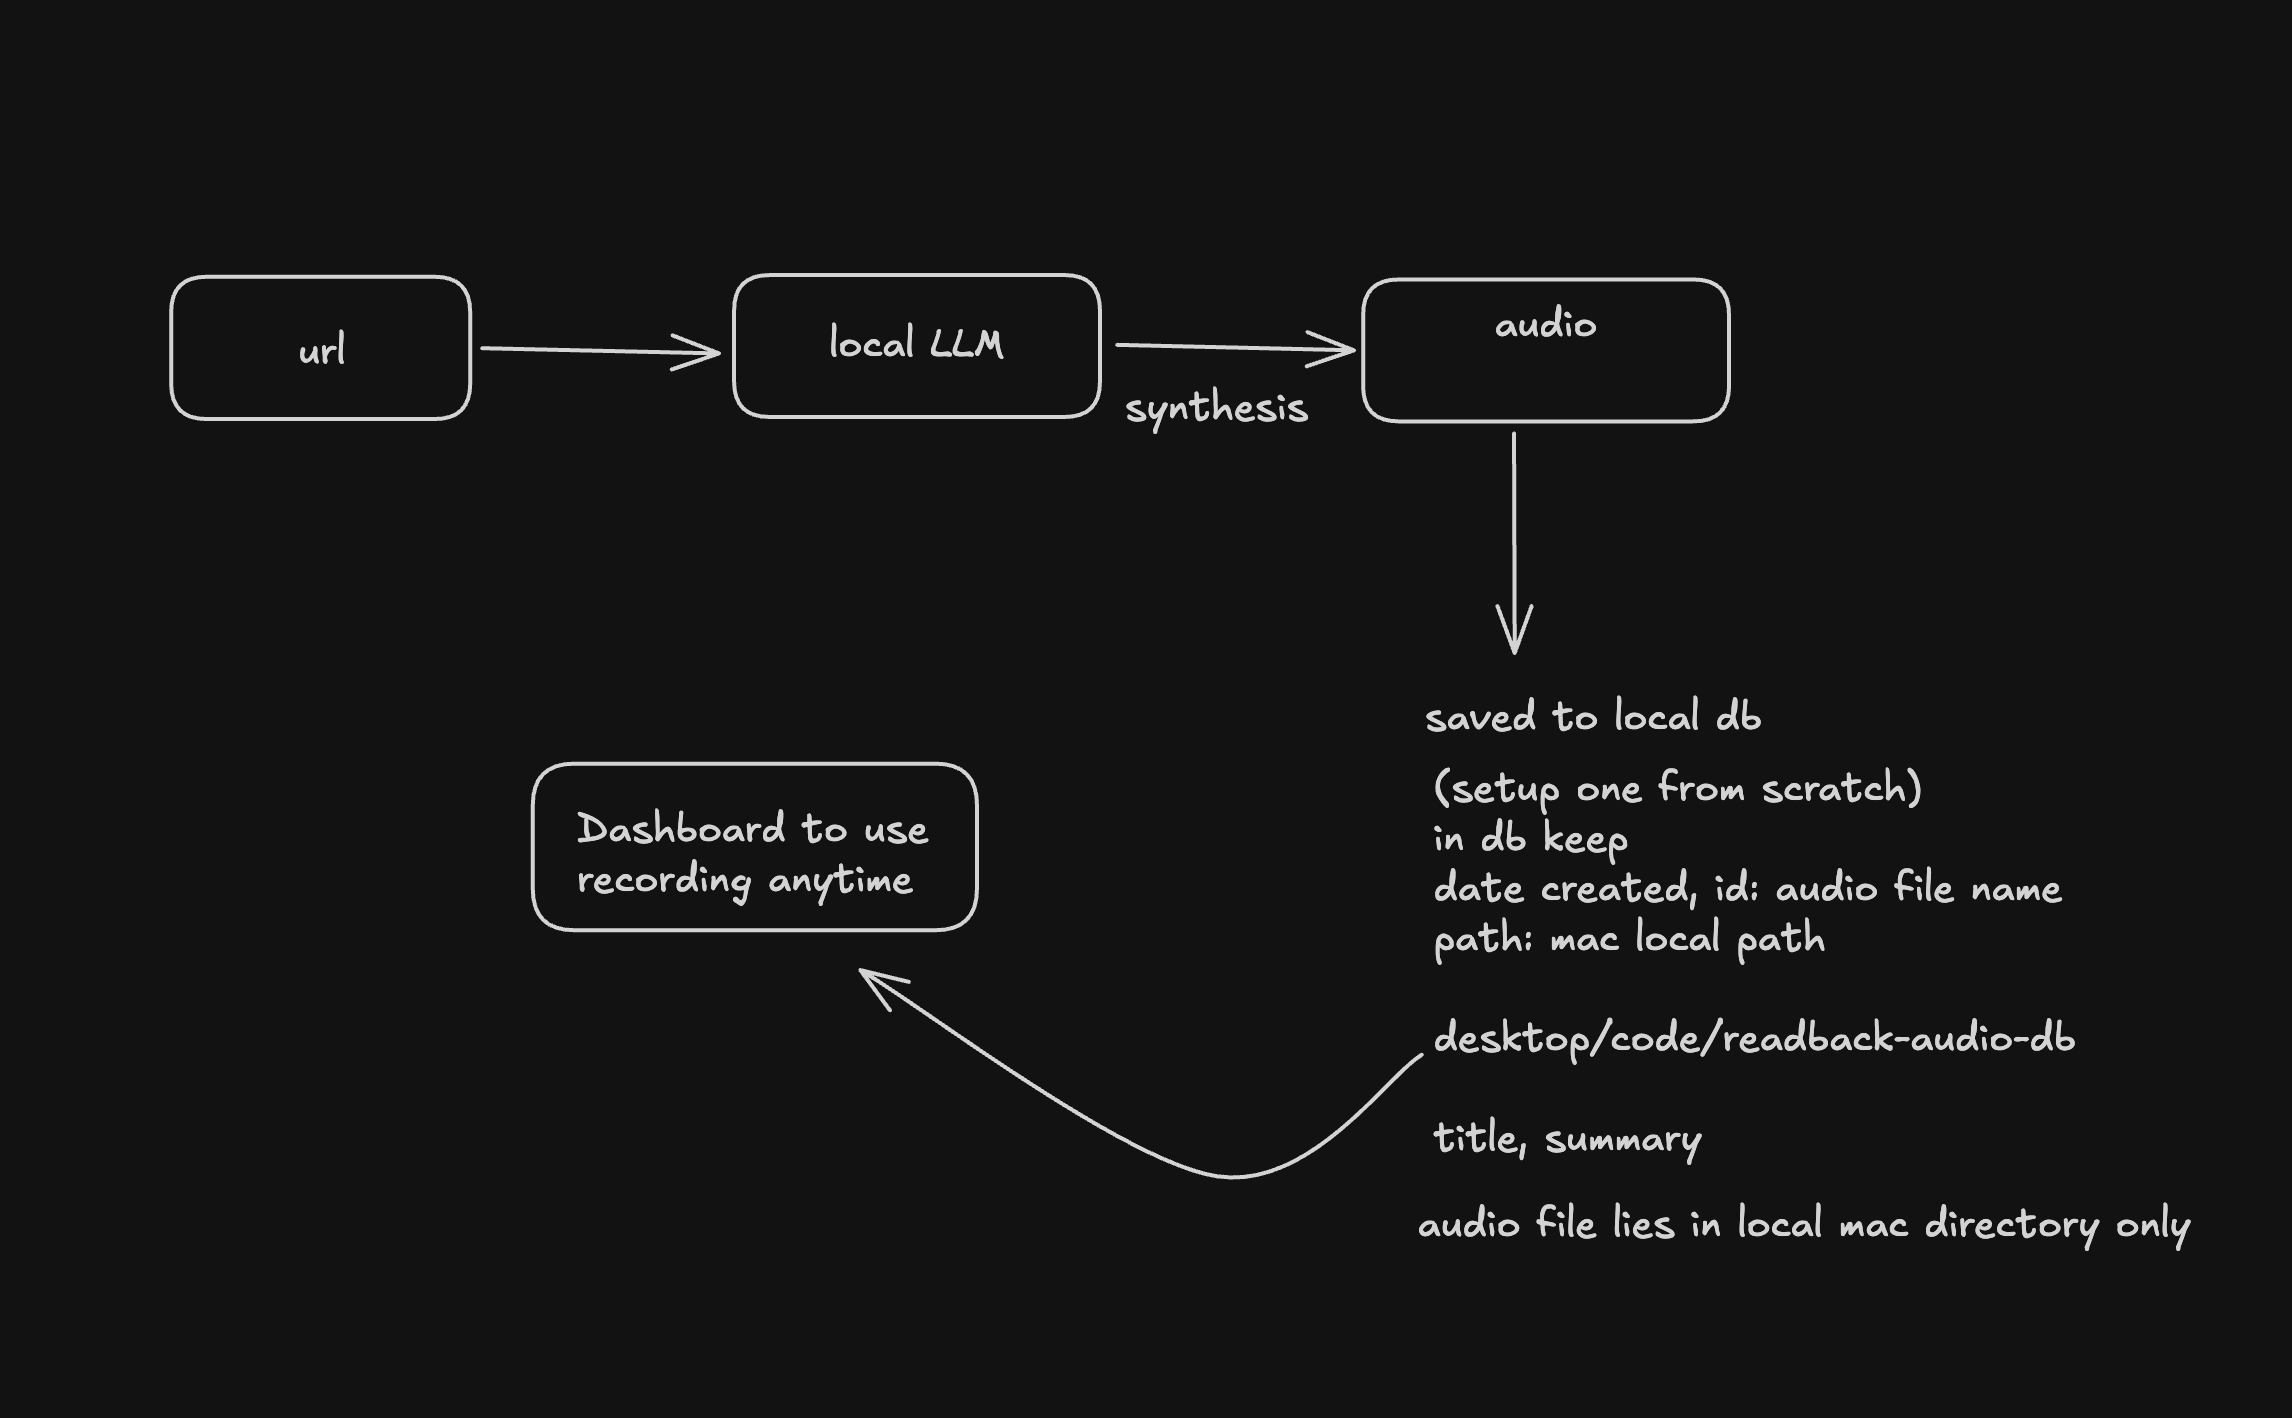
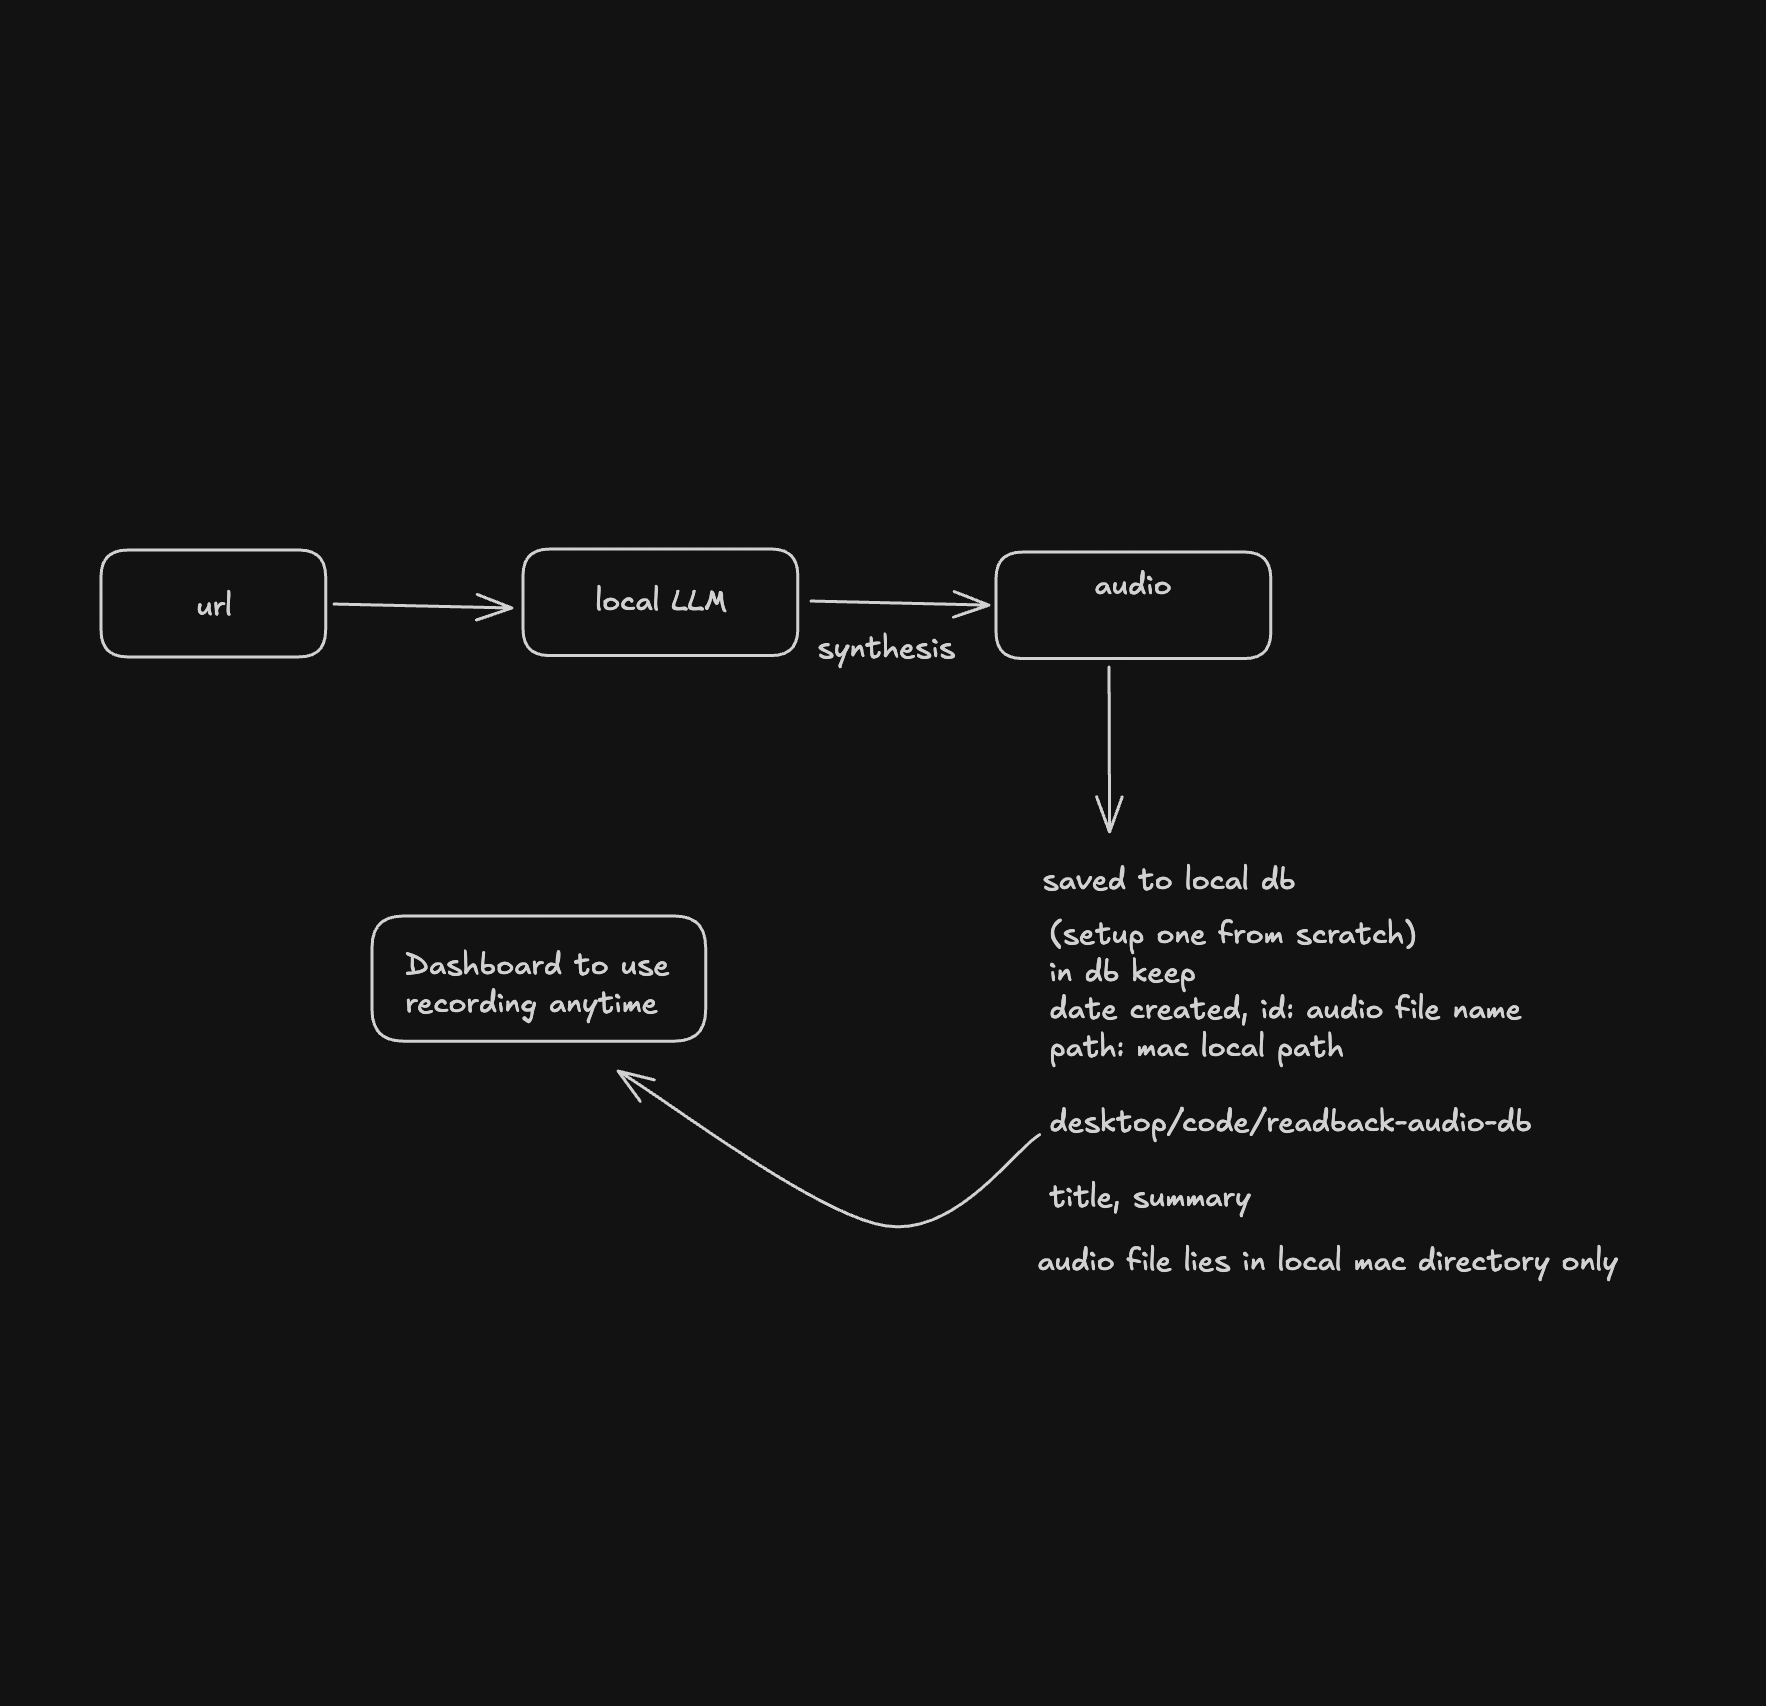
docs(journey): high-level Mermaid concept wireframe in section 1
Replace the embedded hand-sketch side-by-side with a maintainable, native
GitHub Mermaid diagram of the concept (URL -> extract/summarize/synthesize
-> readback-audio-db -> CLI/Dashboard), making the generate-vs-replay split
legible at a glance; keep the shipped dashboard screenshot as proof and
point to the original hand-sketch in PLAN.md. Refresh dashboard-plan.png
with the cleaner square crop. Validated the diagram renders (Chrome + mermaid).

diff --git a/docs/JOURNEY.md b/docs/JOURNEY.md
@@ -19,12 +19,30 @@ voice; delete the prompts as you go.
 ## 1. The arc — what readback became
 
 readback didn't start as an article reader. It started as a **real-time local
-voice assistant** and pivoted twice. The hand-drawn sketches below are the actual
-briefs that kicked off features — concept on the left, shipped on the right.
+voice assistant** and pivoted twice into what it is now — a high-level wireframe
+of the concept it landed on:
+
+```mermaid
+flowchart LR
+    U["Article URL"] --> P
+
+    subgraph P["readback server · 100% on-device"]
+        direction LR
+        E["extract<br/>trafilatura"] --> L["summarize<br/>local LLM · optional"] --> T["synthesize<br/>CSM-1B neural TTS"]
+    end
+
+    T --> DB[("readback-audio-db<br/>WAV files + SQLite")]
+    DB --> CLI["CLI<br/>generate + play live"]
+    DB --> WEB["Dashboard<br/>search + replay anytime"]
+```
+
+The shape that matters: **generation** (extract → LLM → TTS) is the heavy,
+occasional half that wants the Mac's GPU; **replay** is light and model-free. One
+URL in, audio out, two clients reading from the same on-device store.
 
 <p align="center">
-  <img src="media/dashboard-plan.png" alt="the dashboard concept sketch" width="440">
-  <img src="media/dashboard.png" alt="the shipped dashboard" width="440">
+  <img src="media/dashboard.png" alt="the shipped library dashboard" width="460"><br>
+  <sub>The shipped replay surface. The original hand-drawn brief that kicked this off lives in <a href="PLAN.md">PLAN.md</a>.</sub>
 </p>
 
 > ✍ **Write the narrative of the arc here.** The bullets below are the facts —
